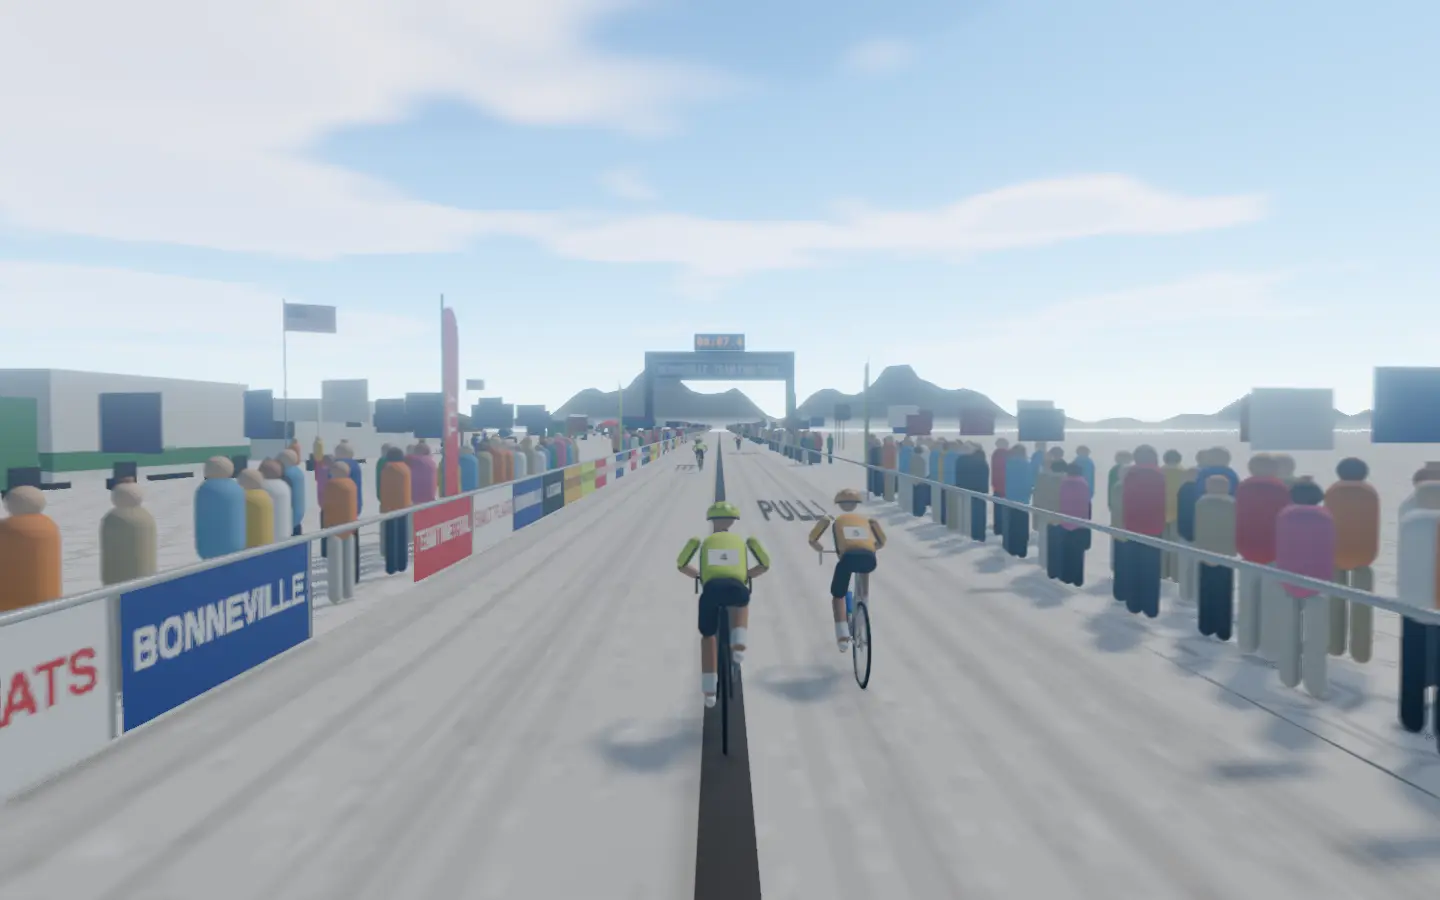
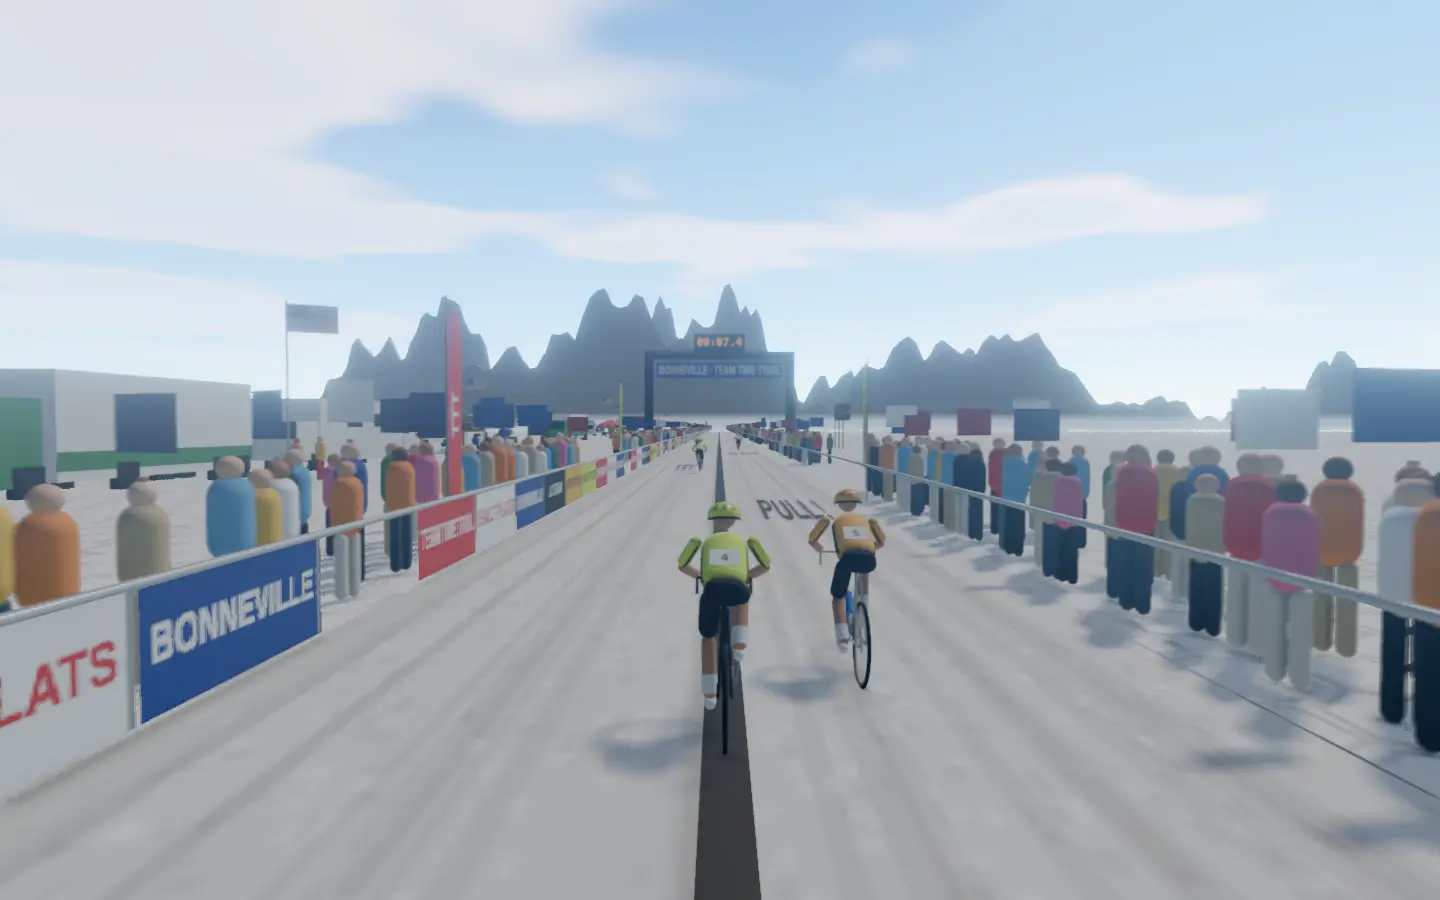
Raise the Silver Island Mountains over Bonneville's mirage

diff --git a/frontend/projects/wattzup/src/app/core/world-bonneville.ts b/frontend/projects/wattzup/src/app/core/world-bonneville.ts
@@ -519,19 +519,26 @@ export class BonnevilleStreet implements SceneStreet {
   private addMountains(): void {
     const haze = new Color(HAZE);
     const h = this.horizon;
+    // The Silver Island Mountains in two ridges, the near one rugged and brown, the far one
+    // taller and blue in the heat; Pilot Peak's range off to the right, lower hills to the left.
     const ranges = [
-      { from: -900, to: 1400, lift: 260, z: -2600, colour: 0x8a7a6a, amount: 0.38, seed: 4301 },
-      { from: -3800, to: -1100, lift: 150, z: -3600, colour: 0x8a8a92, amount: 0.55, seed: 4311 },
-      { from: 1700, to: 4200, lift: 190, z: -3300, colour: 0x8a8088, amount: 0.5, seed: 4321 },
+      { from: -2600, to: 1800, lift: 760, z: -3400, colour: 0x7a88a0, amount: 0.5, seed: 4331 },
+      { from: -1500, to: 1500, lift: 520, z: -2300, colour: 0x7a6656, amount: 0.3, seed: 4301 },
+      { from: -4600, to: -1700, lift: 220, z: -3800, colour: 0x8a8a92, amount: 0.55, seed: 4311 },
+      { from: 1900, to: 5200, lift: 420, z: -3900, colour: 0x8a8090, amount: 0.5, seed: 4321 },
     ];
     for (const range of ranges) {
       const random = seeded(range.seed);
       const ridge = new Shape();
       ridge.moveTo(range.from, 0);
-      for (let x = range.from; x <= range.to; x += 40) {
+      for (let x = range.from; x <= range.to; x += 25) {
         const t = (x - range.from) / (range.to - range.from);
         const swell = Math.sin(t * Math.PI) ** 0.6;
-        const peaks = 0.55 + 0.3 * Math.sin(x / 160 + range.seed) + 0.15 * Math.sin(x / 47);
+        const peaks =
+          0.5 +
+          0.28 * Math.sin(x / 210 + range.seed) +
+          0.14 * Math.sin(x / 73) +
+          0.08 * Math.sin(x / 23);
         ridge.lineTo(x, range.lift * swell * peaks * (0.9 + random() * 0.15));
       }
       ridge.lineTo(range.to, 0);
@@ -544,17 +551,17 @@ export class BonnevilleStreet implements SceneStreet {
       // Its reflection in the mirage, upside down and faint beneath it.
       const ghost = hazedMaterial(this.disposables, haze, range.colour, range.amount + 0.25, {
         transparent: true,
-        opacity: 0.35,
+        opacity: 0.5,
         depthWrite: false,
       });
       const mirror = new Mesh(geometry, ghost);
-      mirror.scale.y = -0.35;
+      mirror.scale.y = -0.3;
       mirror.position.set(0, 2, range.z);
       h.add(mountains, mirror);
     }
     // The mirage: a bright band across the horizon, shimmering like water, hiding the ranges'
     // feet so they float.
-    const band = new PlaneGeometry(14000, 60);
+    const band = new PlaneGeometry(14000, 70);
     this.disposables.push(band);
     const shimmer = this.material({
       map: this.track(mirageTexture()),
@@ -562,10 +569,10 @@ export class BonnevilleStreet implements SceneStreet {
       depthWrite: false,
       fog: false,
       emissive: new Color(0xdfeaf4),
-      emissiveIntensity: 0.6,
+      emissiveIntensity: 0.9,
     });
     const mirage = new Mesh(band, shimmer);
-    mirage.position.set(0, 4, -2200);
+    mirage.position.set(0, 6, -2050);
     h.add(mirage);
   }
 

diff --git a/docs/class-worlds.md b/docs/class-worlds.md
@@ -40,7 +40,7 @@ Every class in `frontend/public/classes.json`, with its World Ride scene. Render
 | 34 | Short, Sharp & Hard Efforts | Montmartre | 81% | Paris cobbles wind up the butte of Montmartre on a golden afternoon, between cream and pink houses with green shutters and café awnings, past the painters at their easels in the Place du Tertre, toward the white domes of Sacré-Cœur on the hilltop. The two-minute warm-up rolls over the cobbles of the lower lanes, the thirty-second kicks punch up the steep ramps past the cafés and painters, and the two- and three-minute blocks climb the winding streets to the basilica. |
 | 35 | Beginner Training Session | Amsterdam Canals | 74% | Flat canal-side streets, humpback bridges and houseboats among friendly commuters. |
 | 36 | Sprint Sprint Sprint | San Fermín, Pamplona (concept) |  | Red scarves and white shirts fill old Pamplona; sprint the bull-run streets at festival dawn. |
-| 37 | Team Time Trial | Bonneville Salt Flats | 72% | An endless white salt plain stretches away under a blazing Utah sky, the speedway course marked by its black line past the pits of Speed Week toward the Silver Island Mountains floating on a shimmering mirage. The three-minute warm-up rolls out past the motorhomes and the parked streamliners, each thirty-second and one-minute turn drives the paceline hard between the mile boards, and the recoveries sit in on the wheels with the mirage mountains still floating ahead. |
+| 37 | Team Time Trial | Bonneville Salt Flats | 74% | An endless white salt plain stretches away under a blazing Utah sky, the speedway course marked by its black line past the pits of Speed Week toward the Silver Island Mountains floating on a shimmering mirage. The three-minute warm-up rolls out past the motorhomes and the parked streamliners, each thirty-second and one-minute turn drives the paceline hard between the mile boards, and the recoveries sit in on the wheels with the mirage mountains still floating ahead. |
 | 38 | The Pyramid | Giza Plateau | 72% | Desert road around the pyramids at sunrise; efforts build and fall like the stones. |
 | 39 | Hold Your Intensity | Great Ocean Road (concept) |  | Australian sea cliffs and the Twelve Apostles; hold steady through winding, spray-dashed bends. |
 | 40 | Give Me One Minute | Times Square New Year's Eve (concept) |  | Confetti and countdown screens; every one-minute effort counts down to the ball drop. |

diff --git a/docs/detailed-designs/world-ride/draw-class-scene/README.md b/docs/detailed-designs/world-ride/draw-class-scene/README.md
@@ -397,7 +397,7 @@ None.
   - on the left, 17 to 31 m out, the pits every 13 to 20 m: motorhomes, box trucks with their trailers, and streamliners on open trailers in their liveries, each built with the kit's box builder; pop-up canopies (the kit's) with the teams' names beside every other one, the Stars and Stripes on tall poles, and thirty crew (the kit's figures) among them;
   - on the right, 11 m out on the open salt, every 125 m a black mile board with its number in orange and a pair of timing lights;
   - a timing gantry over the course 55 m ahead in the opening view: black truss towers, the beam with BONNEVILLE · TEAM TIME TRIAL, and the race clock above it;
-  - 300 m ahead the horizon, where the Silver Island Mountains, bare brown-grey ridges 2.6 km off, and lower ranges either side float on the bright, streaked band of a mirage with their faint reflections inverted beneath, all hazed by hand. Everything along the course is hidden past it.
+  - 300 m ahead the horizon, where the Silver Island Mountains rise in two rugged ridges, the near one brown 2.6 km off and up to 520 m high, the far one bluer and up to 760 m behind it, with Pilot Peak's range to the right and lower hills to the left, all floating on the bright, streaked band of a mirage with their reflections inverted faintly beneath, all hazed by hand. Everything along the course is hidden past it.
 
   `lay`, `place` and `setTime` recycle it along a 500 m loop.
 
